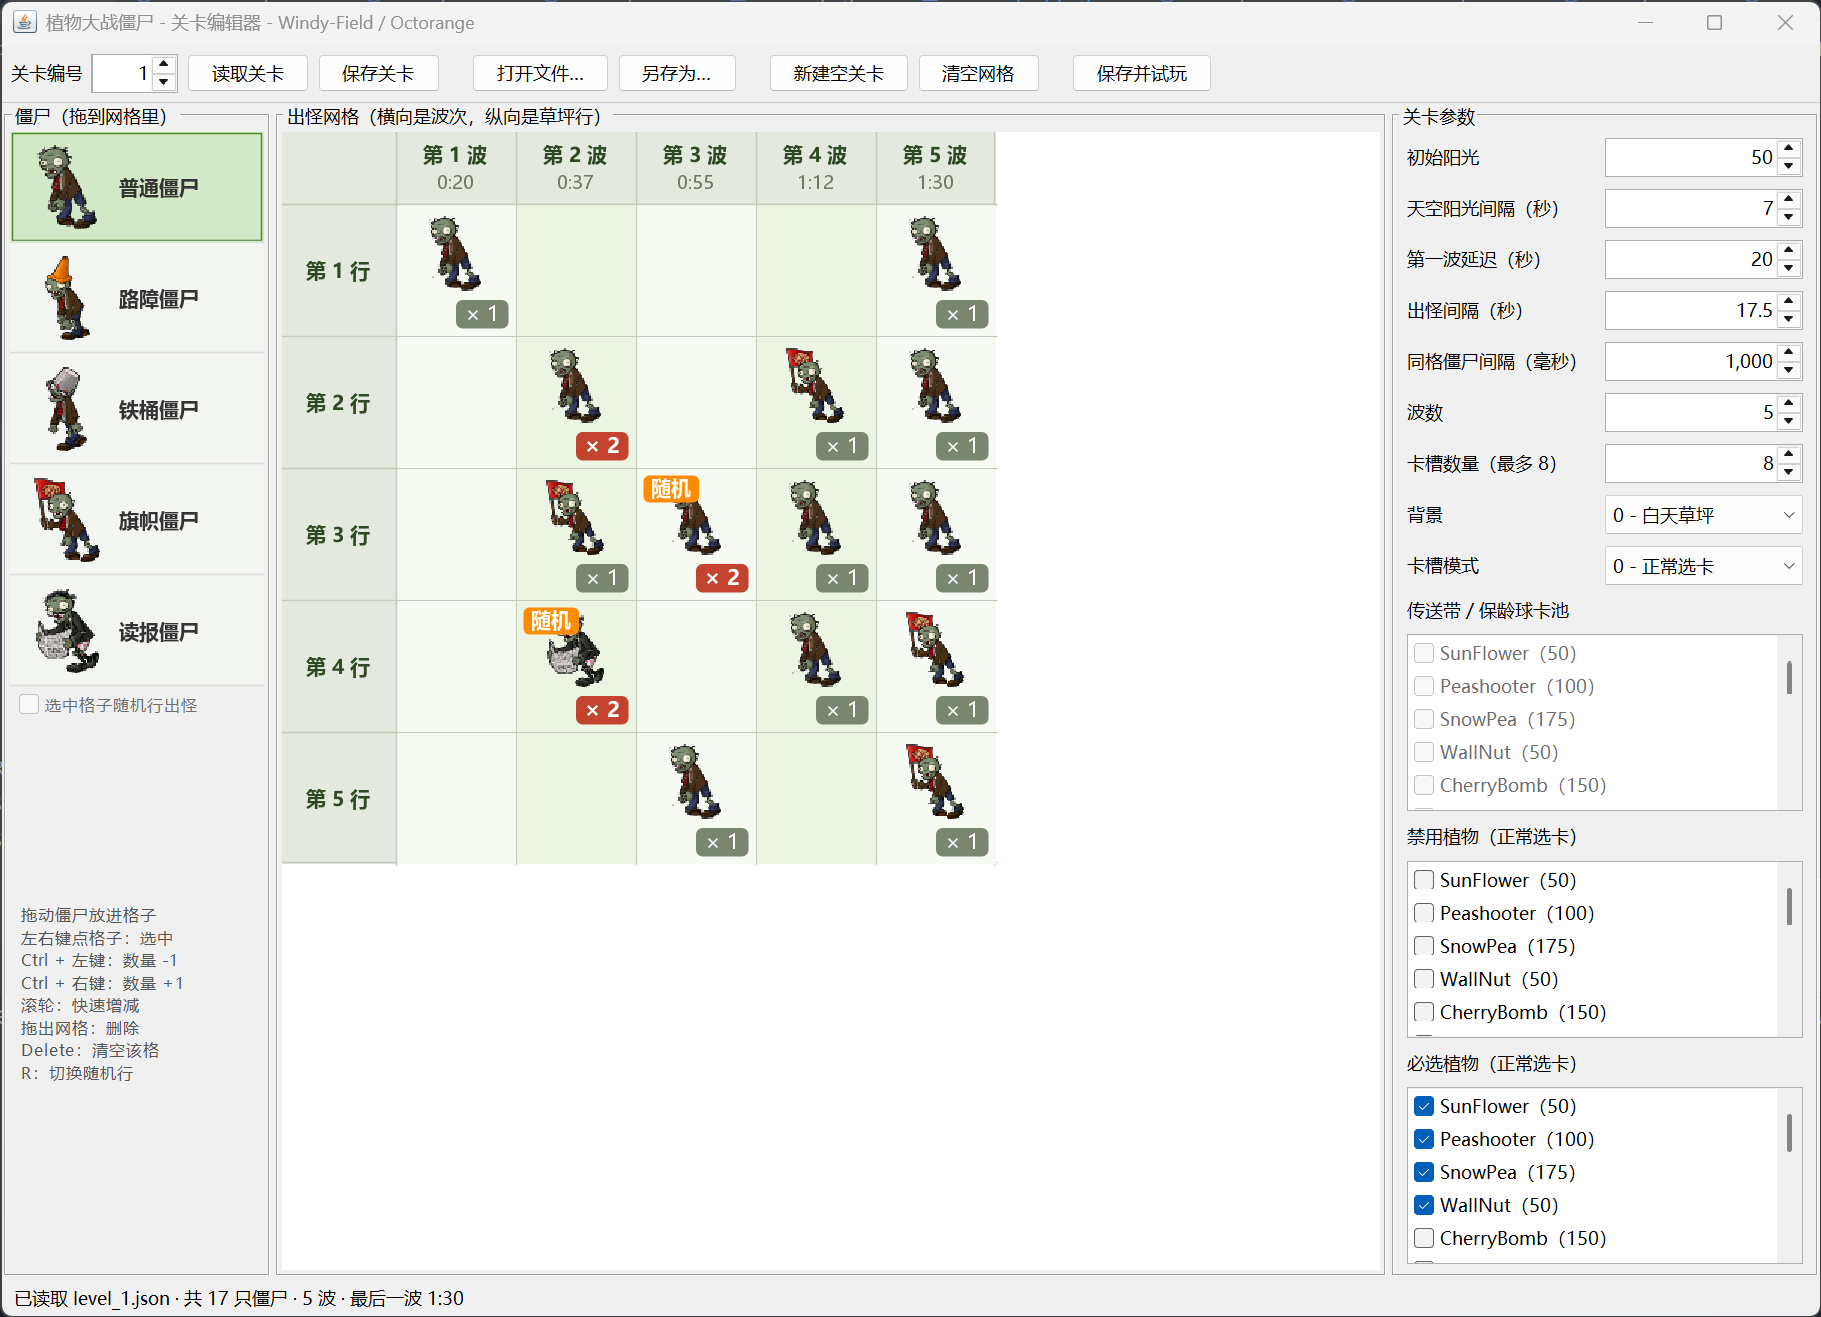
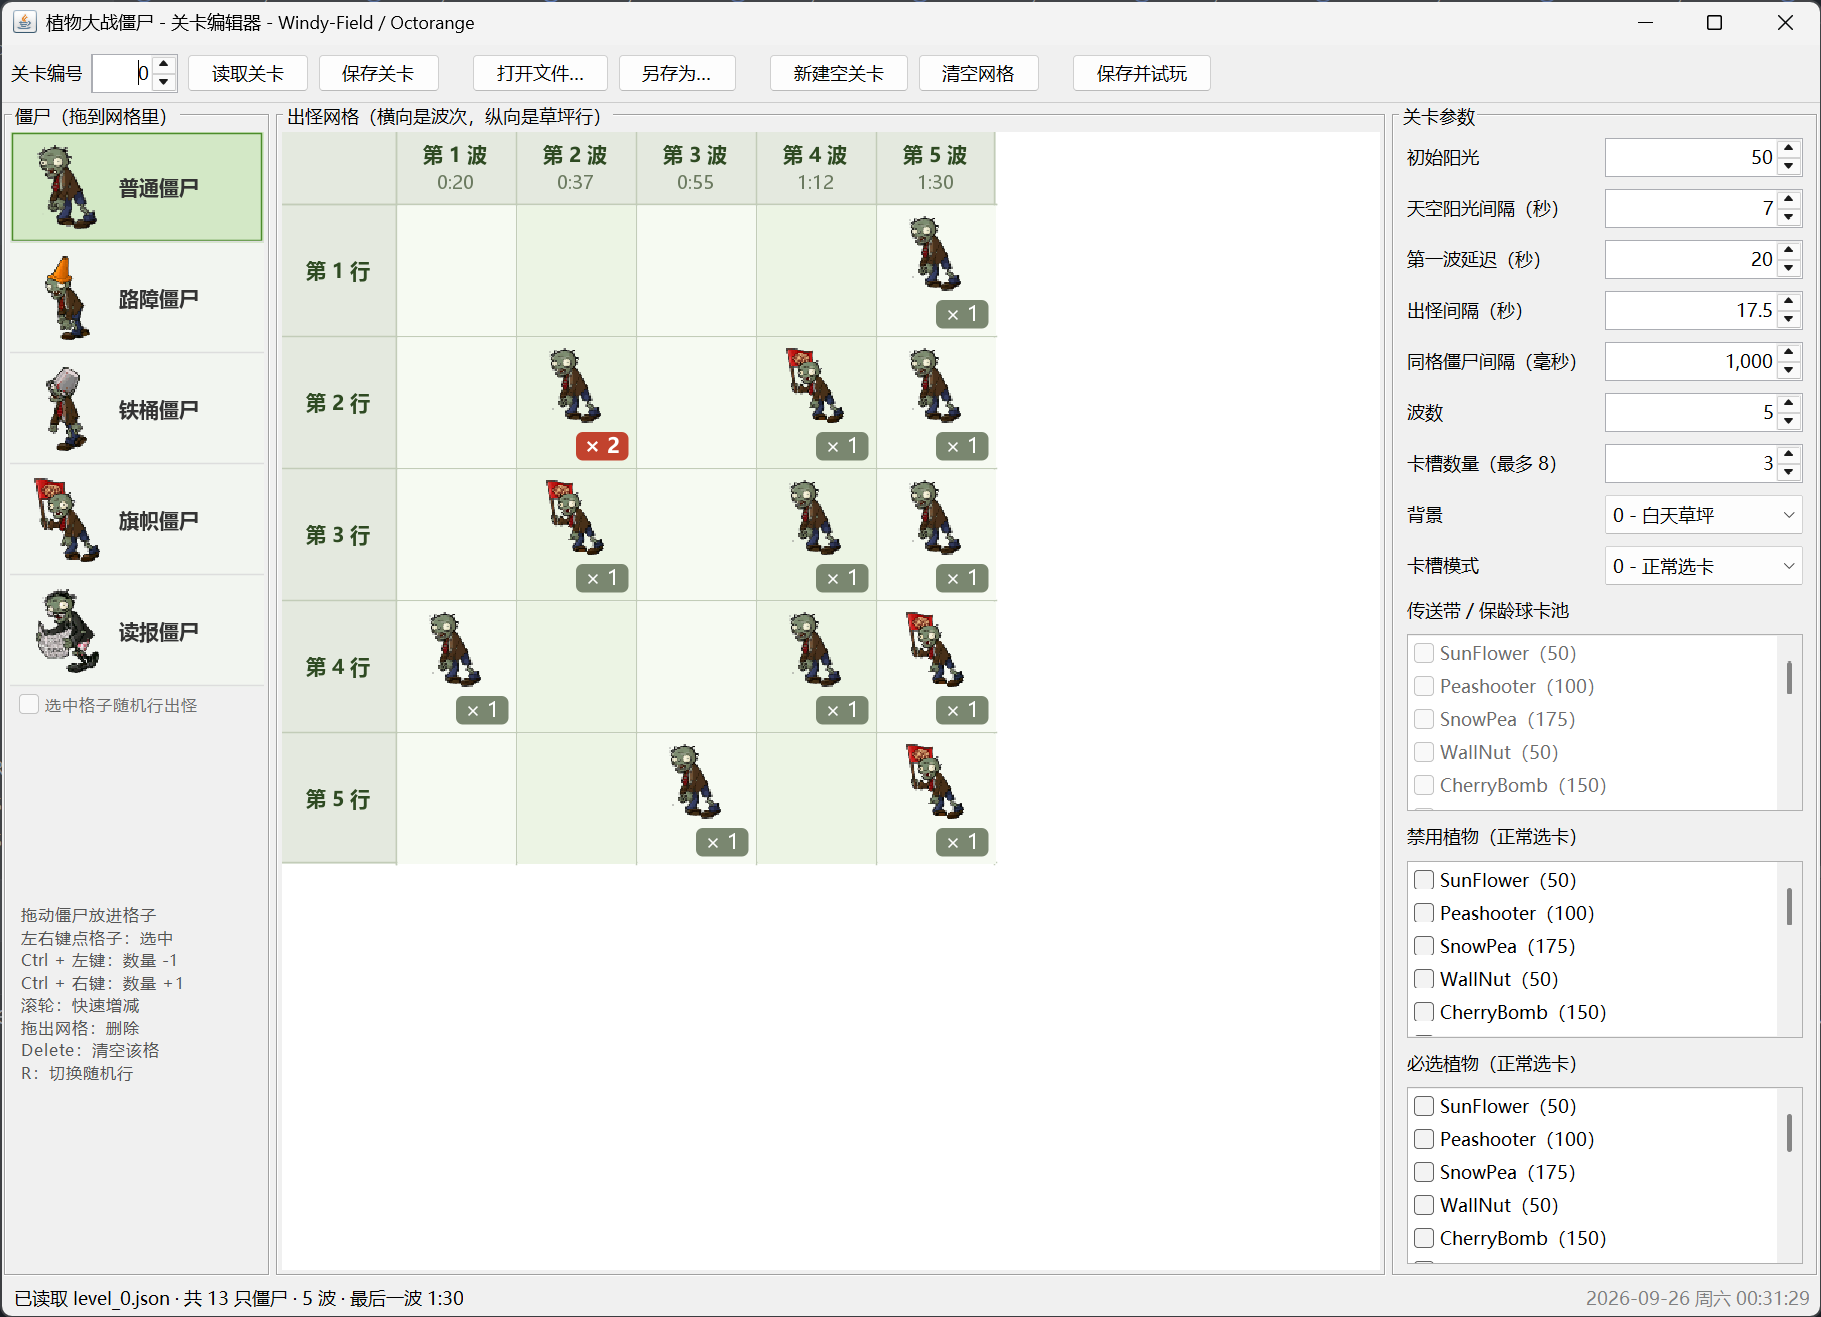
modified:   screenshots/editor.png 	modified:   src/main/java/pvz/editor/LevelEditor.java

diff --git a/src/main/java/pvz/editor/LevelEditor.java b/src/main/java/pvz/editor/LevelEditor.java
@@ -22,8 +22,12 @@ import java.awt.image.BufferedImage;
 import java.io.IOException;
 import java.nio.file.Files;
 import java.nio.file.Path;
+import java.time.ZoneId;
+import java.time.ZonedDateTime;
+import java.time.format.DateTimeFormatter;
 import java.util.ArrayList;
 import java.util.List;
+import java.util.Locale;
 import javax.swing.BorderFactory;
 import javax.swing.Box;
 import javax.swing.JButton;
@@ -39,6 +43,7 @@ import javax.swing.JScrollPane;
 import javax.swing.JSpinner;
 import javax.swing.SpinnerNumberModel;
 import javax.swing.SwingUtilities;
+import javax.swing.Timer;
 import javax.swing.UIManager;
 import javax.swing.event.ChangeEvent;
 import javax.swing.event.ChangeListener;
@@ -66,6 +71,21 @@ public class LevelEditor extends JFrame implements EditorDragController {
     /** 界面文字的字号，和 Windows 自带程序差不多大。 */
     private static final int INTERFACE_FONT_SIZE = 12;
 
+    /**
+     * 时钟显示的时区，固定用北京时间。
+     *
+     * 这里不跟系统时区走：编辑器上的时间是用来对表、记开工时间的，
+     * 换到别的机器上也得是同一个时间，否则对不上。
+     */
+    private static final ZoneId CLOCK_ZONE = ZoneId.of("Asia/Shanghai");
+
+    /** 时钟的格式：年月日加星期，再跟时分秒。 */
+    private static final DateTimeFormatter CLOCK_FORMAT =
+        DateTimeFormatter.ofPattern("yyyy-MM-dd EEE HH:mm:ss", Locale.CHINA);
+
+    /** 时钟多久刷新一次，单位是毫秒。一秒一次，秒数就不会跳格。 */
+    private static final int CLOCK_REFRESH_INTERVAL = 1000;
+
     /** 参数面板右边那一列控件的宽度，要装得下"0 - 白天草坪"这种最长的选项。 */
     private static final int FIELD_WIDTH = 132;
 
@@ -92,6 +112,9 @@ public class LevelEditor extends JFrame implements EditorDragController {
 
     /** 底部状态栏，显示统计和各种提示。 */
     private final JLabel statusLabel = new JLabel(" ");
+
+    /** 底部状态栏右侧的时钟，动态显示当前北京时间。 */
+    private final JLabel clockLabel = new JLabel(" ");
 
     /** 要读写第几关。 */
     private final JSpinner levelSpinner;
@@ -211,6 +234,7 @@ public class LevelEditor extends JFrame implements EditorDragController {
         hookListeners();
         writeFields();
         updateStatus();
+        startClock();
 
         // 编辑器多半是拿来改现成关卡的，开窗时就把这一关读进来，省一次点击。
         Path initial = assetRoot.resolve("levels/level_" + levelNumber + ".json");
@@ -499,14 +523,43 @@ public class LevelEditor extends JFrame implements EditorDragController {
     /**
      * 拼出底部状态栏。
      *
-     * 返回：摆好状态文字的面板。
+     * 左边是状态文字，右边是当前北京时间，各占一头，中间留空。
+     *
+     * 返回：摆好状态文字和时钟的面板。
      */
     private JPanel buildStatusBar() {
         JPanel statusBar = new JPanel(new BorderLayout());
         statusBar.setBorder(BorderFactory.createEmptyBorder(4, 8, 4, 8));
         statusLabel.setFont(statusLabel.getFont().deriveFont(Font.PLAIN, 12f));
+        clockLabel.setFont(clockLabel.getFont().deriveFont(Font.PLAIN, 12f));
+        // 时间数字宽度一直在变，固定成等宽数字，免得整行文字每秒左右晃。
+        clockLabel.setForeground(Color.GRAY);
         statusBar.add(statusLabel, BorderLayout.WEST);
+        statusBar.add(clockLabel, BorderLayout.EAST);
         return statusBar;
+    }
+
+    /**
+     * 启动状态栏右下角的时钟。
+     *
+     * 先立刻显示一次时间，再挂上定时器每秒刷新，这样窗口一打开就有时间，
+     * 不用等满一秒。
+     */
+    private void startClock() {
+        updateClock();
+        Timer clockTimer = new Timer(CLOCK_REFRESH_INTERVAL, new ActionListener() {
+            /** 每秒把状态栏上的时间换成最新的。 */
+            public void actionPerformed(ActionEvent event) {
+                updateClock();
+            }
+        });
+        clockTimer.start();
+    }
+
+    /** 把状态栏上的时间换成此刻的北京时间。 */
+    private void updateClock() {
+        ZonedDateTime now = ZonedDateTime.now(CLOCK_ZONE);
+        clockLabel.setText(CLOCK_FORMAT.format(now));
     }
 
     /**
